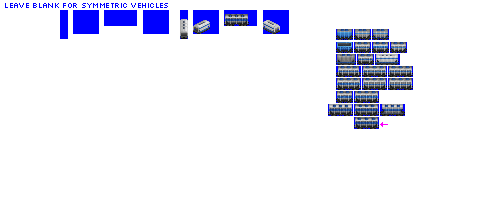
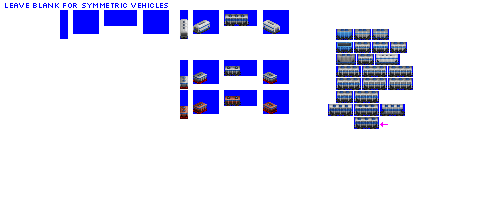
Change: sprites complete for gen 4A hopper car

Changed region(s): [[0.36, 0.3, 0.6, 0.6]]

diff --git a/src/vehicles/covered_hopper_cars.py b/src/vehicles/covered_hopper_cars.py
@@ -26,7 +26,8 @@ def main():
     consist = CoveredHopperCarConsist(roster='pony',
                                       base_numeric_id=2940,
                                       gen=4,
-                                      subtype='A')
+                                      subtype='A',
+                                      sprites_complete=True)
 
     consist.add_unit(type=FreightCar,
                      vehicle_length=4,
